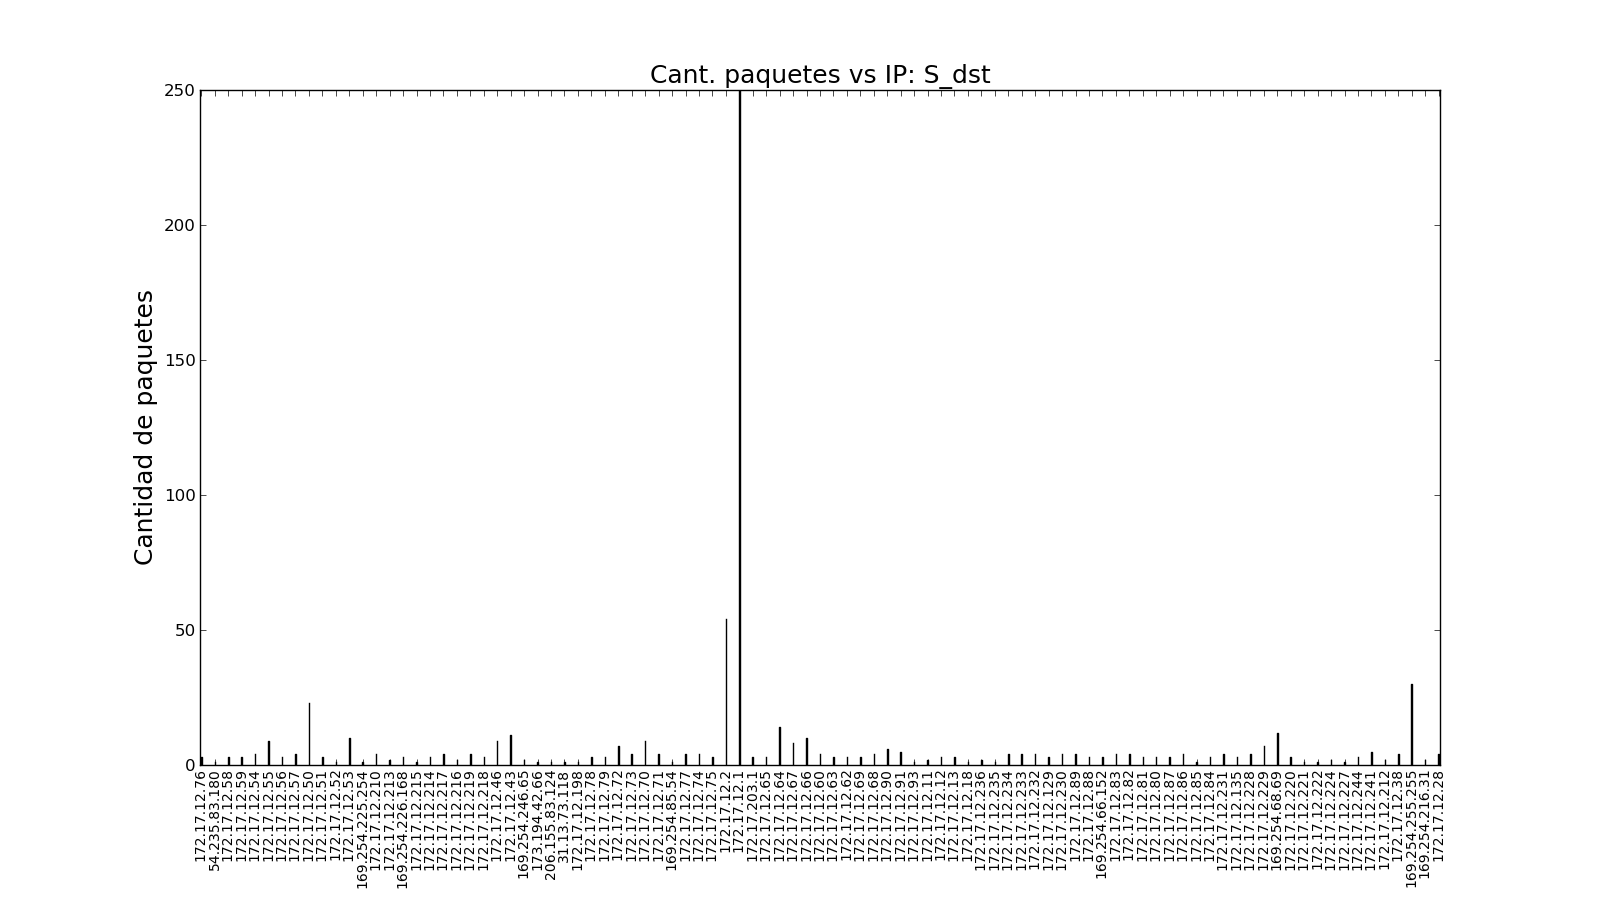
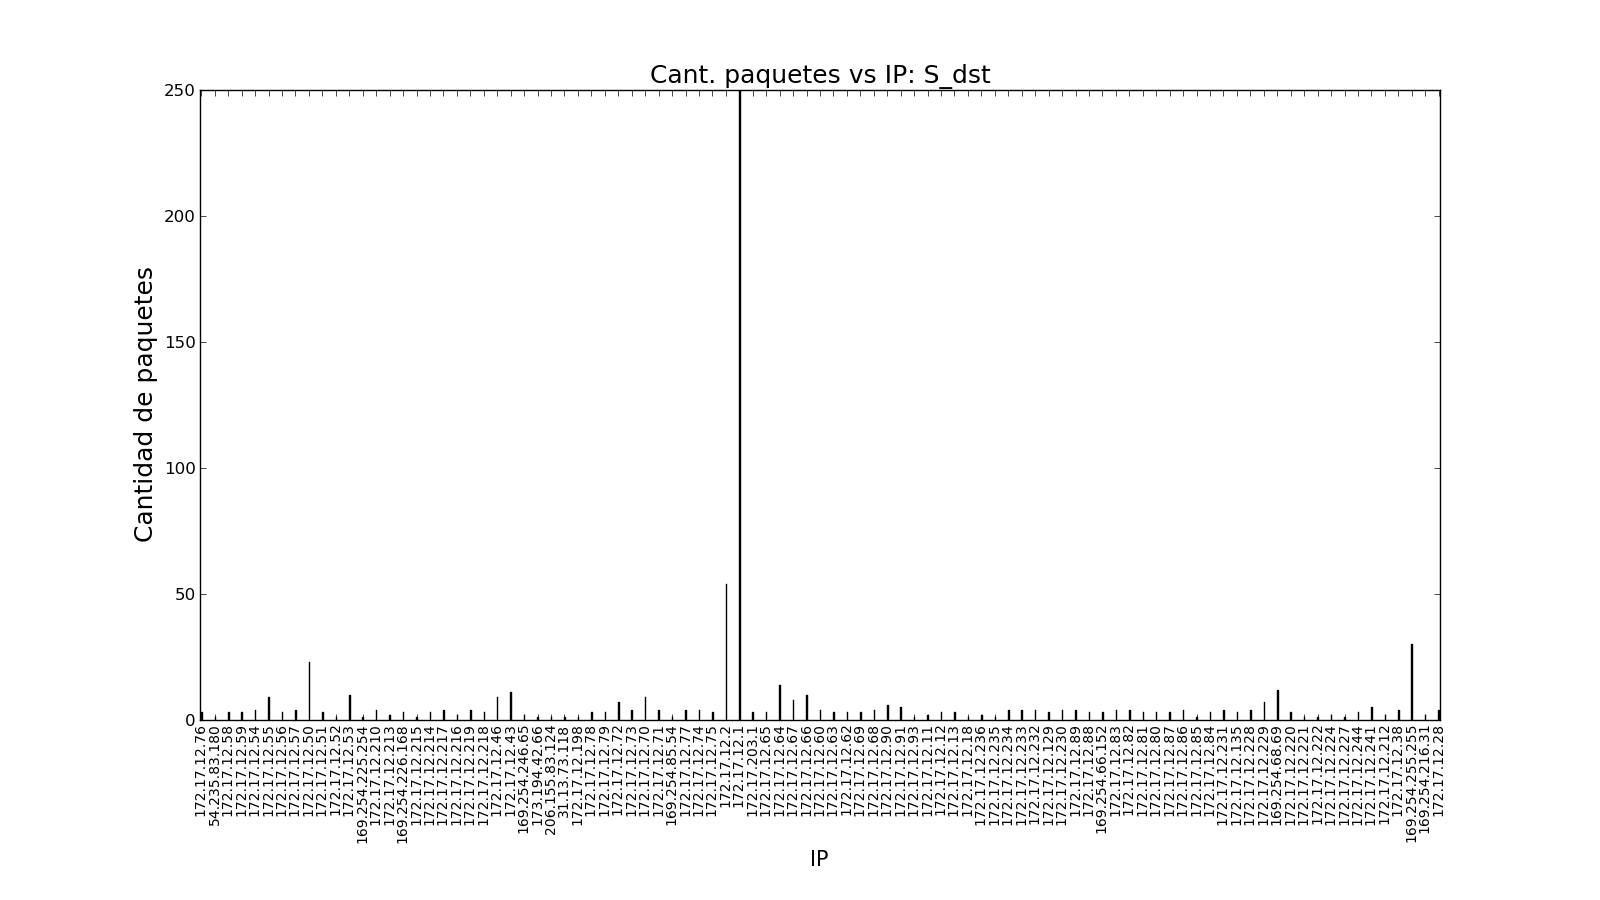
faltaba titulo a los ejes x

Changed region(s): [[0.125, 0.7778, 0.9062, 0.9956], [0.0625, 0.3111, 0.125, 0.6222], [0.0938, 0.2178, 0.125, 0.2489]]

diff --git a/arp_analysis_tool.py b/arp_analysis_tool.py
@@ -60,12 +60,12 @@ def plot_histogram(source, hist, basename):
   x, y = [20 * i for i in range(len(hist))], hist.values()
   labels = hist.keys()
   f = plt.figure('hist_{source}'.format(source=source), [16, 9])
-  f.subplots_adjust(bottom=0.15)
+  f.subplots_adjust(bottom=0.2)
   plt.xlim([-2, x[-1] + 2])
   plt.bar(x, y, align='center')
   plt.xticks(x, labels, size='small', rotation='vertical', fontsize=18)
   plt.title('Cant. paquetes vs IP: {source}'.format(source=source), fontsize=18)
-  # plt.xlabel("IP", fontsize=15)
+  plt.xlabel("IP", fontsize=15)
   plt.ylabel("Cantidad de paquetes", fontsize=18)
   f.savefig('imgs/{basename}_{source}_hist.png'.format(basename=basename, source=source))
 
@@ -73,13 +73,13 @@ def plot_info(source, hist, entropy, basename):
   x, y = [20 * i for i in range(len(hist))], hist.values()
   labels = hist.keys()
   f = plt.figure('info_{source}'.format(source=source), [16, 9])
-  f.subplots_adjust(bottom=0.15)
+  f.subplots_adjust(bottom=0.2)
   plt.xlim([-2, x[-1] + 2])
   plt.bar(x, y, align='center', color="green")
   plt.axhline(entropy, color='r',label='entropia')
   plt.xticks(x, labels, size='small',rotation='vertical', fontsize=18)
   plt.title('Informacion vs IP: {source}'.format(source=source), fontsize=18)
-  # plt.xlabel("IP", fontsize=15)
+  plt.xlabel("IP", fontsize=15)
   plt.ylabel("Informacion", fontsize=18)
   f.savefig('imgs/{basename}_{source}_info.png'.format(basename=basename, source=source))
 
